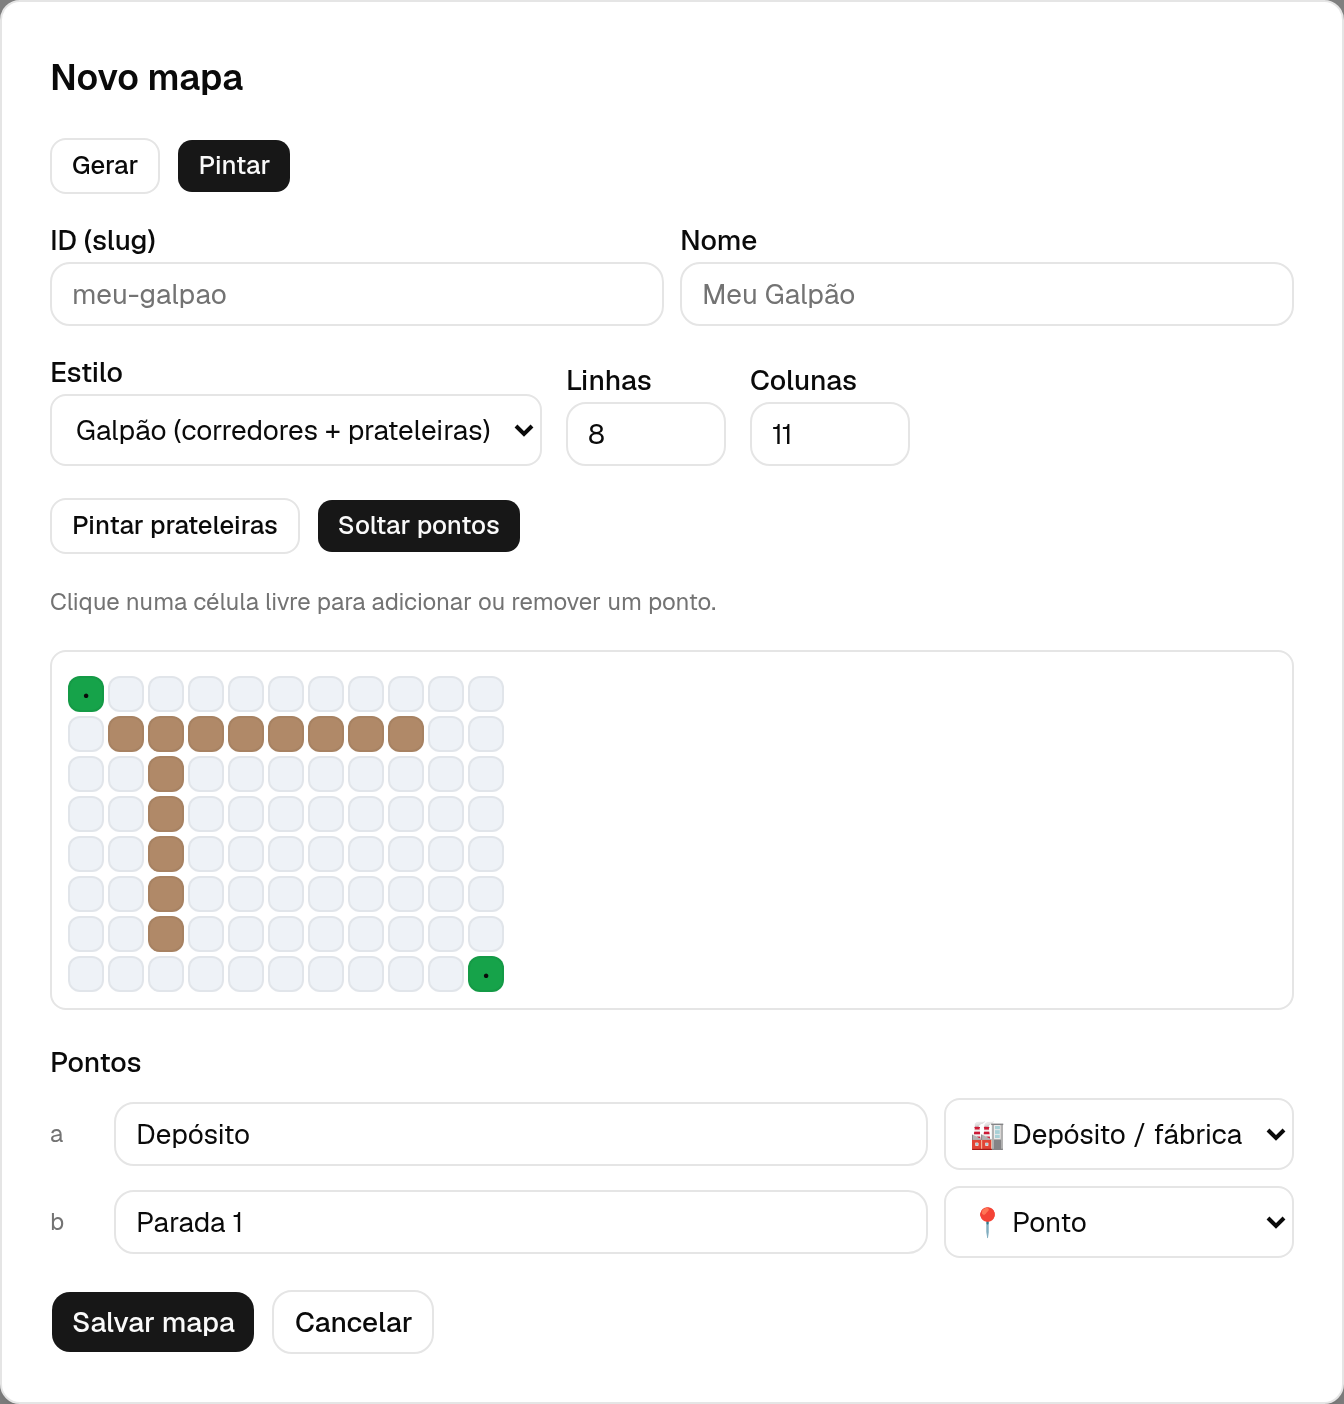
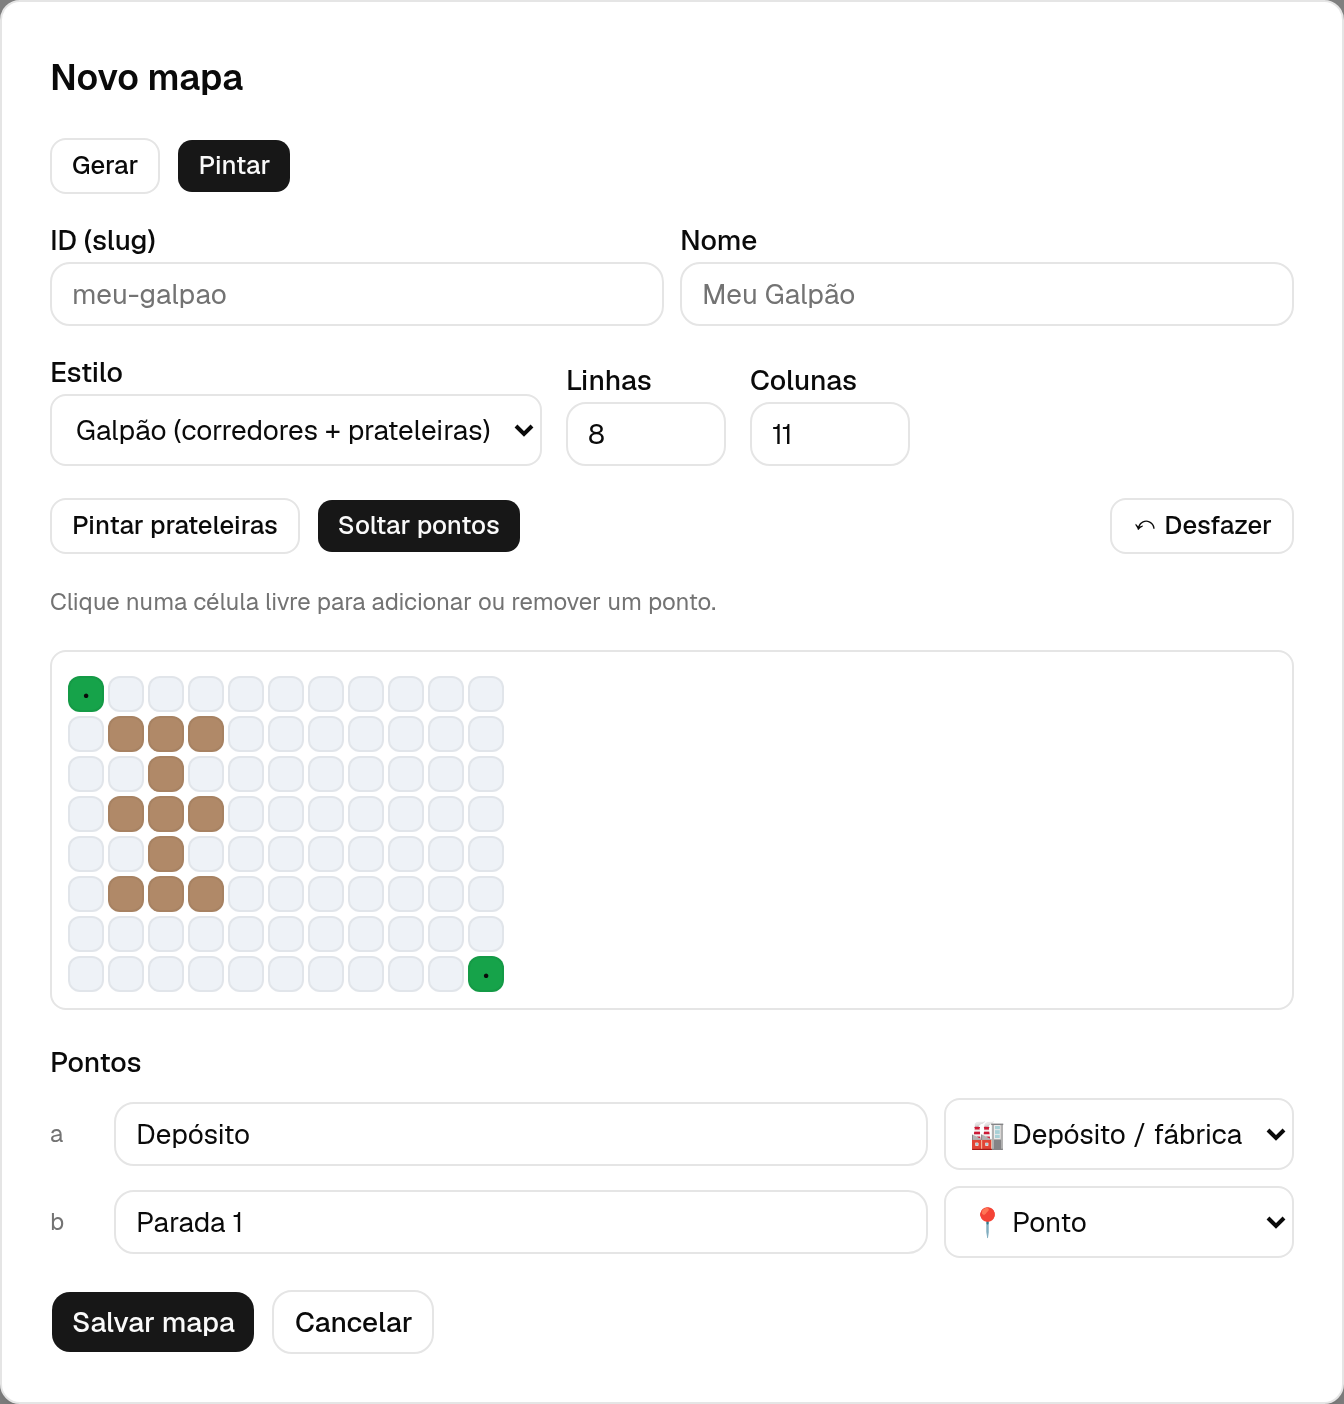
docs: note the Desfazer (undo) button; refresh painter screenshot

Changed region(s): [[0.0625, 0.49, 0.3125, 0.6738], [0.8438, 0.3675, 0.9375, 0.3981]]

diff --git a/README.md b/README.md
@@ -112,7 +112,8 @@ finds a route ~50% better than a random one — the core value of the heuristic.
 The **Novo mapa** dialog (opened from the sidebar button) creates a map two ways via a **Gerar / Pintar**
 toggle: *Gerar* procedurally builds a city/warehouse grid (style · size · density · points · seed), while
 *Pintar* (shown here) lets you **click and drag** to paint buildings/shelves and drop stops on the free
-cells (point icons are labeled in pt-BR). Either way the
+cells (point icons are labeled in pt-BR), and step back one edit at a time with **Desfazer** (undo).
+Either way the
 distance matrix is **derived from the layout** (4-connected shortest paths) — no hand-edited numbers. All
 generation inputs live inside this dialog.
 
@@ -387,7 +388,7 @@ above the guard is **not** an error — it's skipped with `brute_force_skipped: 
 | `src/components/StopList.tsx` | Lists selected stops, radio to designate the start, remove button |
 | `src/components/MapPicker.tsx` | Dropdown of maps, delete (non-presets), and the **Novo mapa** button that opens the creation dialog |
 | `src/components/MapGenerator.tsx` | Procedural-generation form (style · size · density · points · seed); lives inside the Novo mapa dialog (Gerar mode) |
-| `src/components/GridPainter.tsx` | Click-drag to paint buildings/shelves, drop points on free cells (icons labeled in pt-BR), pick a style; validates connectivity and posts a grid map (matrix derived server-side); the Novo mapa dialog's Pintar mode |
+| `src/components/GridPainter.tsx` | Click-drag to paint buildings/shelves, drop points on free cells (icons labeled in pt-BR), pick a style, step back edits with Desfazer (undo); validates connectivity and posts a grid map (matrix derived server-side); the Novo mapa dialog's Pintar mode |
 | `src/components/ResultsPanel.tsx` | Route sequence, total cost, agent/random/brute-force comparison, improvement %, the **cost matrix**, and the route + evolution **PNG charts** |
 | `src/components/CostMatrix.tsx` | Color-scaled HTML table of the stop-to-stop distance matrix; emits hover events so the map can highlight that leg |
 | `src/components/RunsList.tsx` | History of past optimizations (newest first); open or delete a run |